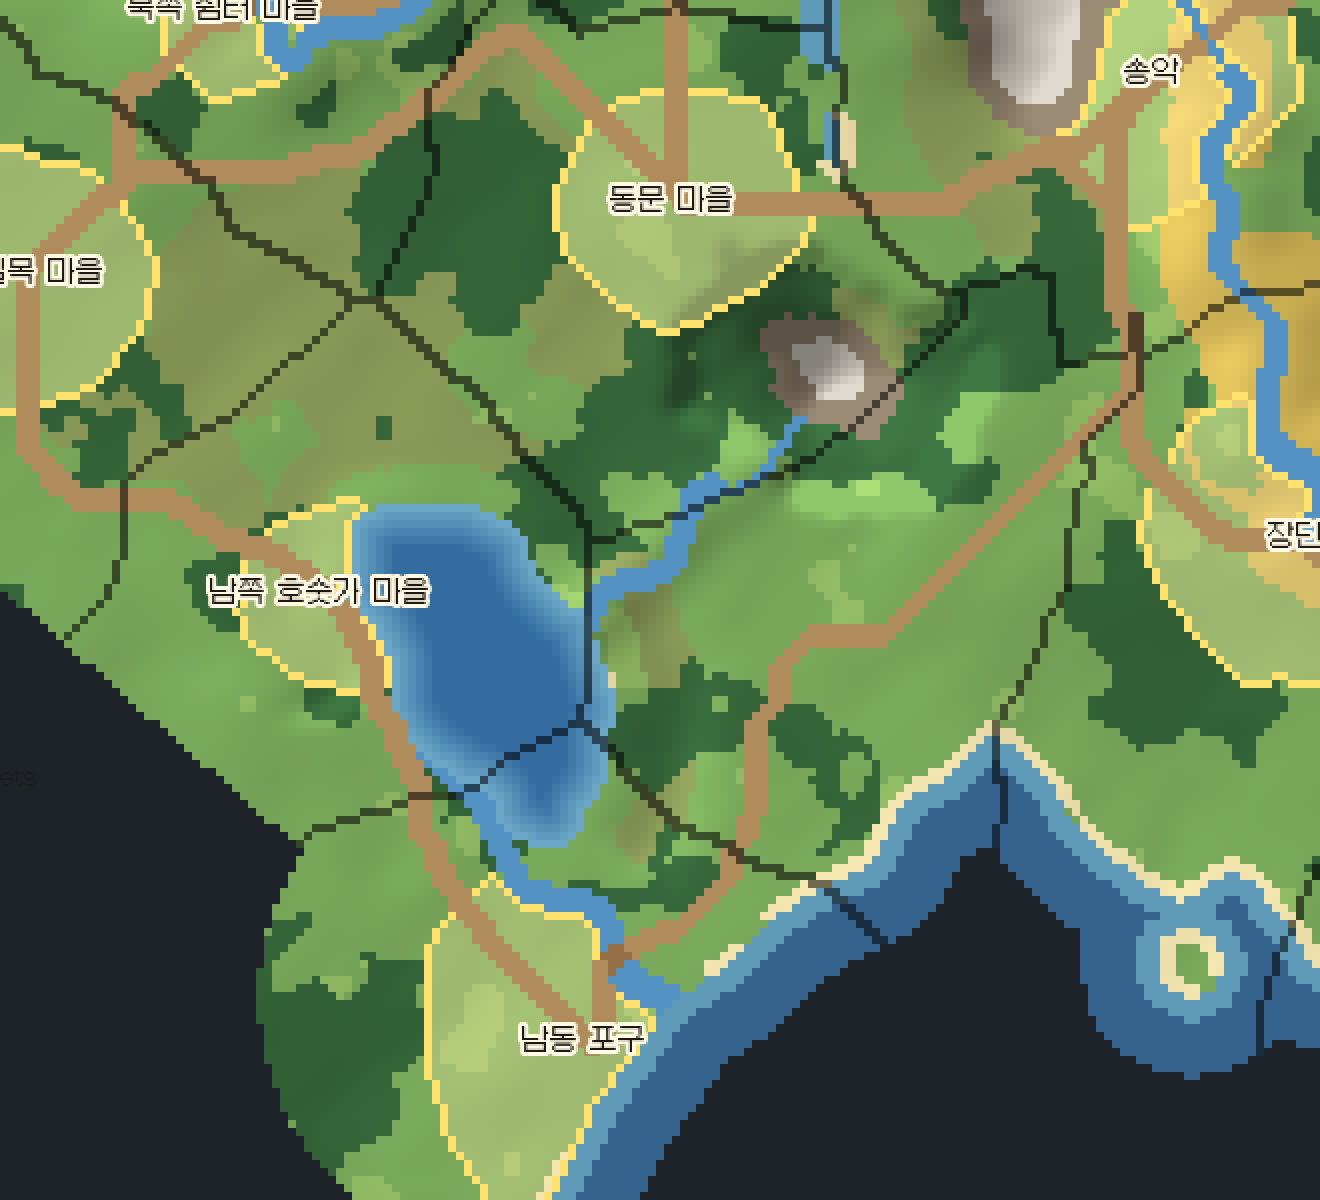
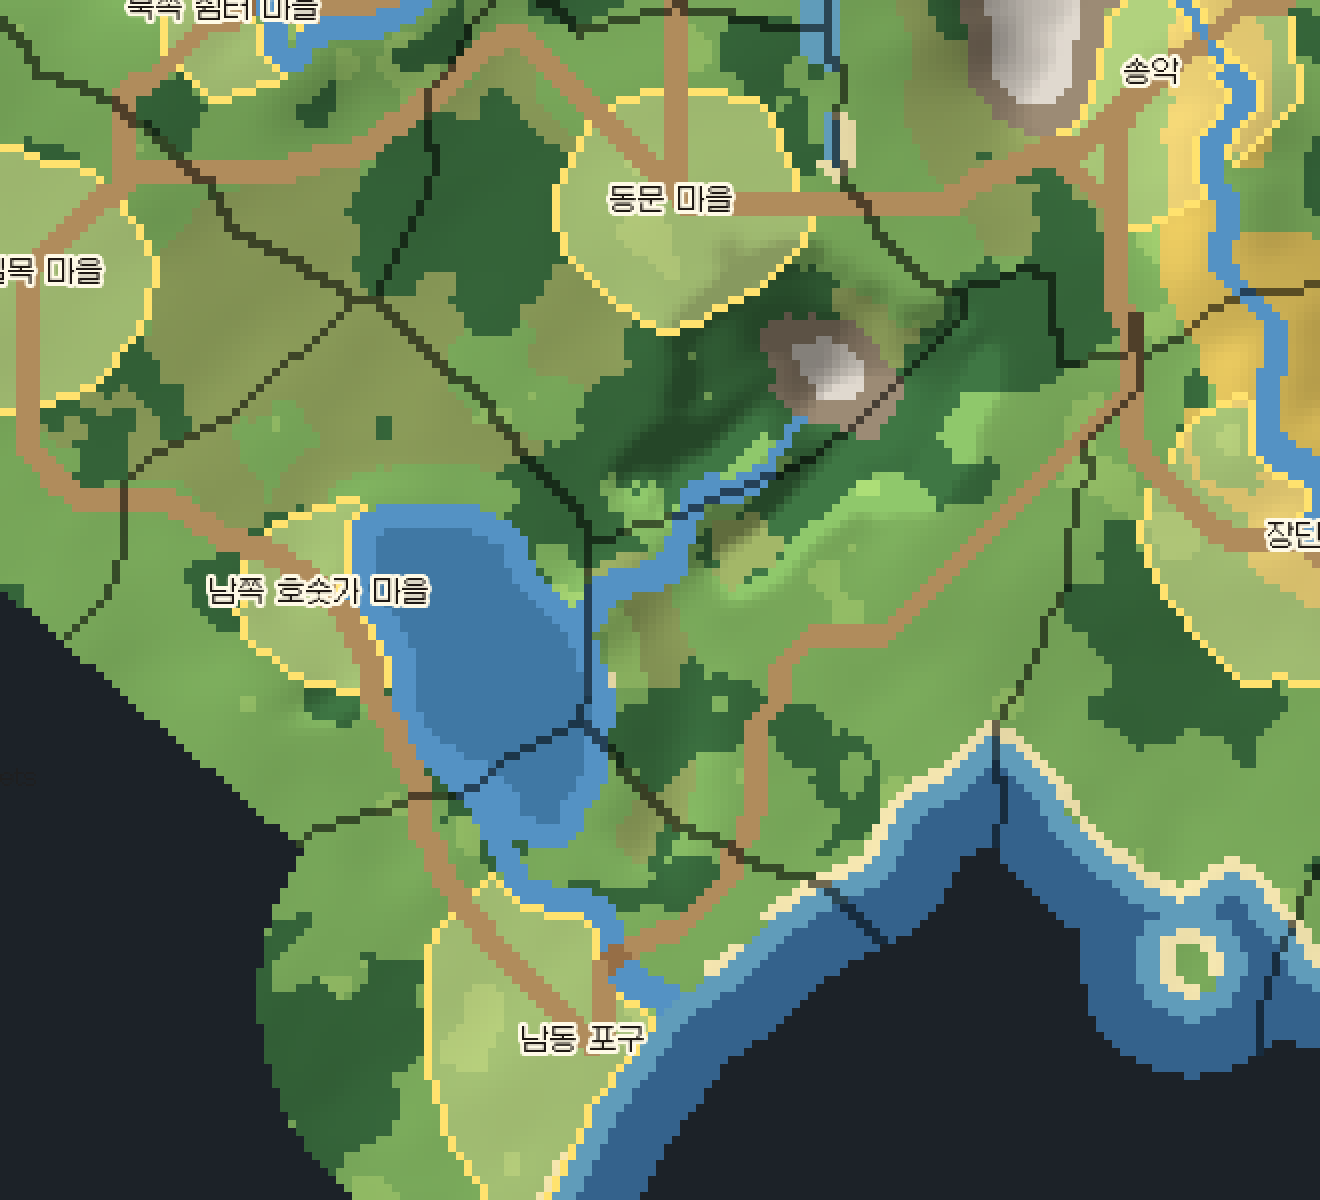
M1: 호수 색을 바다처럼 두 단계로, 유입 강 폭 확대, 골짜기 양쪽 숲 언덕
Claude-Session: https://claude.ai/code/session_01LeGdCGGAkPbpRa1d2kF6Yd

Changed region(s): [[0.4659, 0.3392, 0.6523, 0.4933], [0.4348, 0.4625, 0.4659, 0.5242]]

diff --git a/Tools/WorldLayout/terrain_v3.py b/Tools/WorldLayout/terrain_v3.py
@@ -327,7 +327,15 @@ def build(layout):
                 yy3,xx3=m0;t[(((yy_-yy3)**2+(xx_-xx3)**2)<4**2)&land&~m&(marsh_n>.4)]=MARSH
                 # 강 골짜기: 강을 따라 땅을 조금 낮춘다
                 vm=np.zeros((H,W),bool);vm[tuple(np.array(seg).T)]=True
-                elev=elev-.10*np.exp(-(ndimage.distance_transform_edt(~vm)/4)**2)*~zone
+                dv_,(iy_,ix_)=ndimage.distance_transform_edt(~vm,return_indices=True)
+                elev=elev-.10*np.exp(-(dv_/4)**2)*~zone
+                # 골짜기 양쪽 산등성이: 산에서 호수 쪽으로 뻗은 숲 언덕 두 줄기 사이로 강이 흐른다
+                order=np.full((H,W),-1.0);order[tuple(np.array(seg).T)]=np.arange(len(seg))/max(1,len(seg)-1)
+                frac_=order[iy_,ix_]
+                spur=(dv_>2.5)&(dv_<9+3*wob_)&(frac_<.72-.25*wob_)&land&~m&~river&east&~np.isin(t,[MOUNTAIN,PEAK])
+                bump_=np.exp(-((dv_-5.5)/2.8)**2)*(1-frac_)
+                elev=np.where(spur,np.maximum(elev,.5+.3*bump_),elev)
+                t[spur&(forest_n>.28)]=FOREST;t[spur&(forest_n<=.28)]=HILL
         def meander(path,amp_=2.6,lam_=13):
             # A* 길을 따라가며 옆으로 흔들어 굽이치게(땅 위에서만)
             if len(path)<8:return path
@@ -342,7 +350,7 @@ def build(layout):
         for path,width in [(out,1.3)]+[(q_,1.0) for q_ in inflow]:
             pts=meander(path)
             for i_,(y,x) in enumerate(pts):
-                rad=width*(.7+.5*i_/max(1,len(pts))) if path is out else .75+.7*(i_/max(1,len(pts)))
+                rad=width*(.7+.5*i_/max(1,len(pts))) if path is out else .8+1.0*(i_/max(1,len(pts)))
                 rr=int(math.ceil(rad))
                 for dy in range(-rr,rr+1):
                     for dx in range(-rr,rr+1):
@@ -572,8 +580,8 @@ def render(w,path,road=None,scale=4,title='',tint=False):
     landish=w['land']&(t!=RIVER)&(t!=LAKE)
     if w.get('lake') is not None and w['lake'].any():   # 호수 깊이: 물가는 밝고 가운데는 짙게
         dep=ndimage.distance_transform_edt(w['lake']);lk_=w['lake']
-        k_=np.clip(dep/6,0,1)[lk_,None]
-        rgb[lk_]=np.array((118,178,206))*(1-k_)+np.array((52,108,160))*k_
+        rgb[lk_]=COLORS[RIVER]                       # 바다처럼 두 단계: 물가(강과 같은 색) / 깊은 곳
+        rgb[lk_&(dep>3.5)]=(64,120,164)
     rgb[landish]*=shade[landish,None]
     # 마을 범위: 옅게 덮고 테두리
     vm=w['village'];rgb[vm]=rgb[vm]*.7+np.array((255,236,170))*.3
